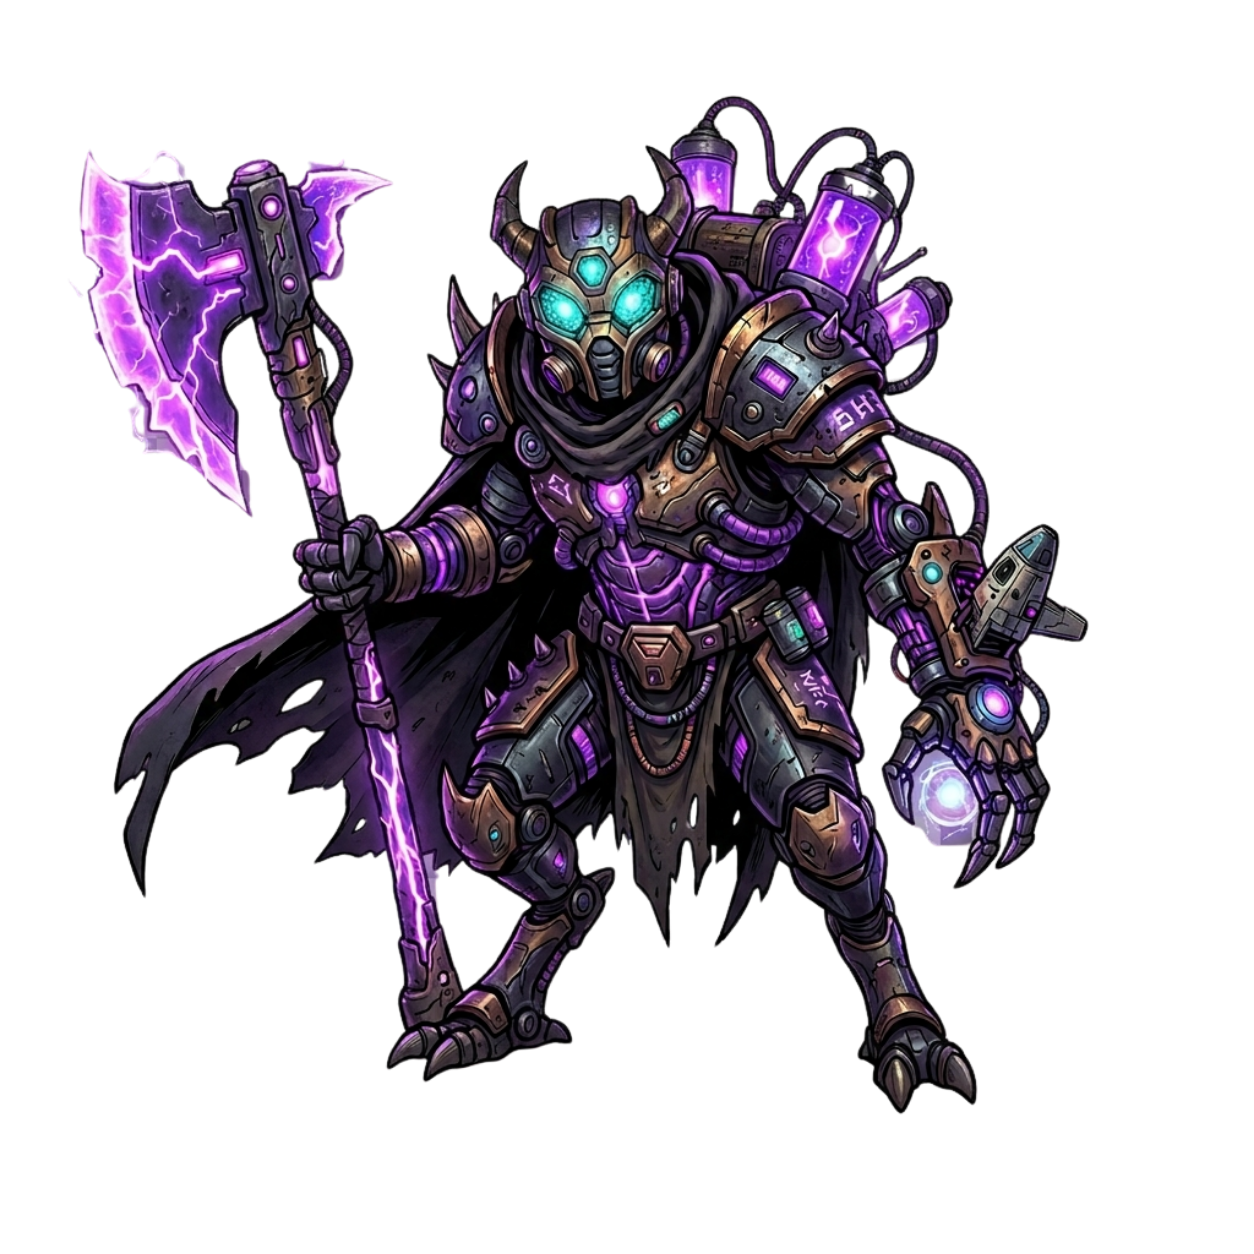
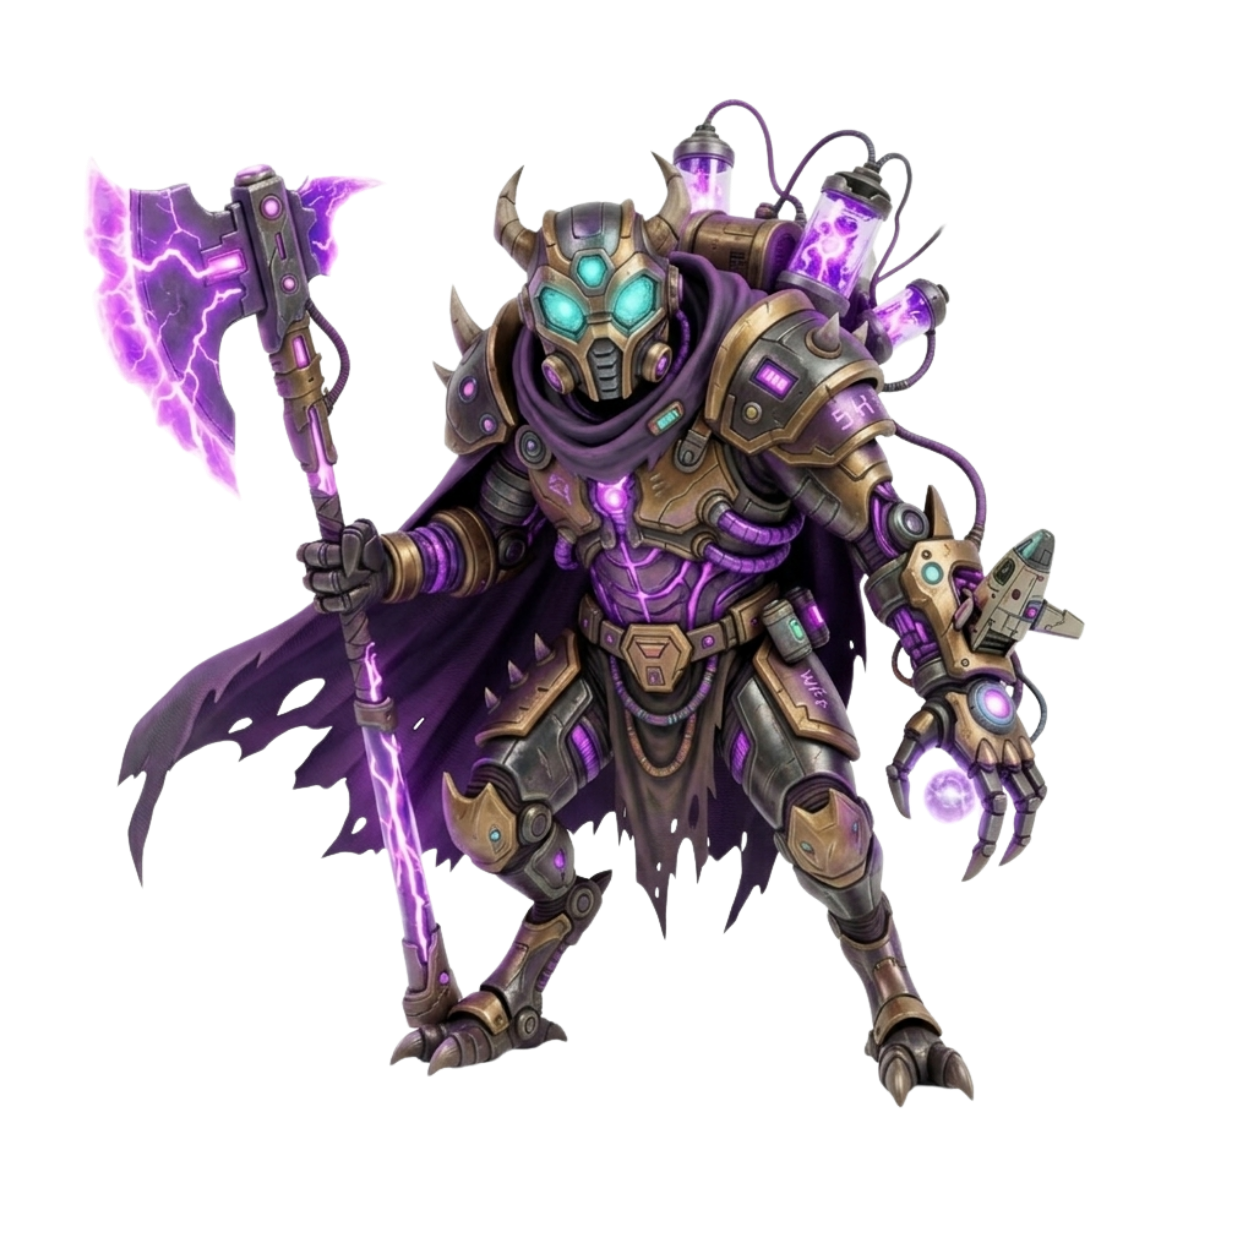
update_19/6/68-2

Changed region(s): [[0.0622, 0.0622, 0.8708, 0.9019]]

diff --git a/src/components/AdminPanel.jsx b/src/components/AdminPanel.jsx
@@ -81,6 +81,7 @@ function StagesTab({ notify }) {
     const { error } = await supabase.from('game_stages').update({
       answer_time_sec: st.answer_time_sec,
       answer_time_rearrange_sec: st.answer_time_rearrange_sec,
+      answer_time_typing_sec: st.answer_time_typing_sec,
       monster_count: st.monster_count, title: st.title,
     }).eq('stage_no', st.stage_no);
     notify(error ? 'บันทึกล้มเหลว' : 'บันทึกด่านแล้ว');
@@ -183,6 +184,10 @@ function StagesTab({ notify }) {
                 <label className="flex flex-col gap-1">เวลาเรียงประโยค (วิ)
                   <input type="number" min="1" className="border-2 border-slate-200 rounded-lg px-2 py-2 text-sm font-normal"
                     value={st.answer_time_rearrange_sec ?? 12} onChange={e => setStages(s => s.map((x, i) => i === idx ? { ...x, answer_time_rearrange_sec: +e.target.value } : x))} />
+                </label>
+                <label className="flex flex-col gap-1">เวลาพิมพ์ (วิ)
+                  <input type="number" min="1" className="border-2 border-slate-200 rounded-lg px-2 py-2 text-sm font-normal"
+                    value={st.answer_time_typing_sec ?? 15} onChange={e => setStages(s => s.map((x, i) => i === idx ? { ...x, answer_time_typing_sec: +e.target.value } : x))} />
                 </label>
               </div>
               <button onClick={() => saveStage(st)} className="bg-slate-700 hover:bg-slate-800 text-white px-4 py-2.5 rounded-xl font-black text-sm uppercase w-full transition-colors active:scale-95">บันทึก</button>

diff --git a/src/components/BattleGame.jsx b/src/components/BattleGame.jsx
@@ -87,6 +87,7 @@ export default function BattleGame({ user, stageNo, selectedCharacterId = null, 
   const currentEnemy = enemyQueue[enemyIdx] || null;
   const answerTime = stage?.answer_time_sec || 8;
   const rearrangeTime = stage?.answer_time_rearrange_sec || 12;
+  const typingTime = stage?.answer_time_typing_sec || 15;
   const showSpeaker = (stage?.source_level ?? 3) <= 2;
 
   // -------------------------------------------------------------------
@@ -143,7 +144,7 @@ export default function BattleGame({ user, stageNo, selectedCharacterId = null, 
         if (vocab) {
           wordIdxRef.current = idx + 1;
           qSinceTypingRef.current = 0;
-          setTimer(rearrangeTime);
+          setTimer(typingTime);
           setRound({ type: 'typing', card: words[idx], correct: vocab, correctAnswer: vocab });
           return;
         }
@@ -183,7 +184,7 @@ export default function BattleGame({ user, stageNo, selectedCharacterId = null, 
     setTimer(answerTime);
     const c = buildChoices('pinyin', card);
     setRound({ type: 'word', card, subStage: 'pinyin', choices: c.choices, correctAnswer: c.correctAnswer });
-  }, [answerTime, rearrangeTime, buildChoices]);
+  }, [answerTime, rearrangeTime, typingTime, buildChoices]);
 
   // -------------------------------------------------------------------
   // initial load

diff --git a/src/utils/gameStorage.js b/src/utils/gameStorage.js
@@ -141,6 +141,7 @@ export async function createStage() {
       monster_count: 30,
       answer_time_sec: 10,
       answer_time_rearrange_sec: 12,
+      answer_time_typing_sec: 15,
       title: `ด่าน ${nextNo}`,
     })
     .select()